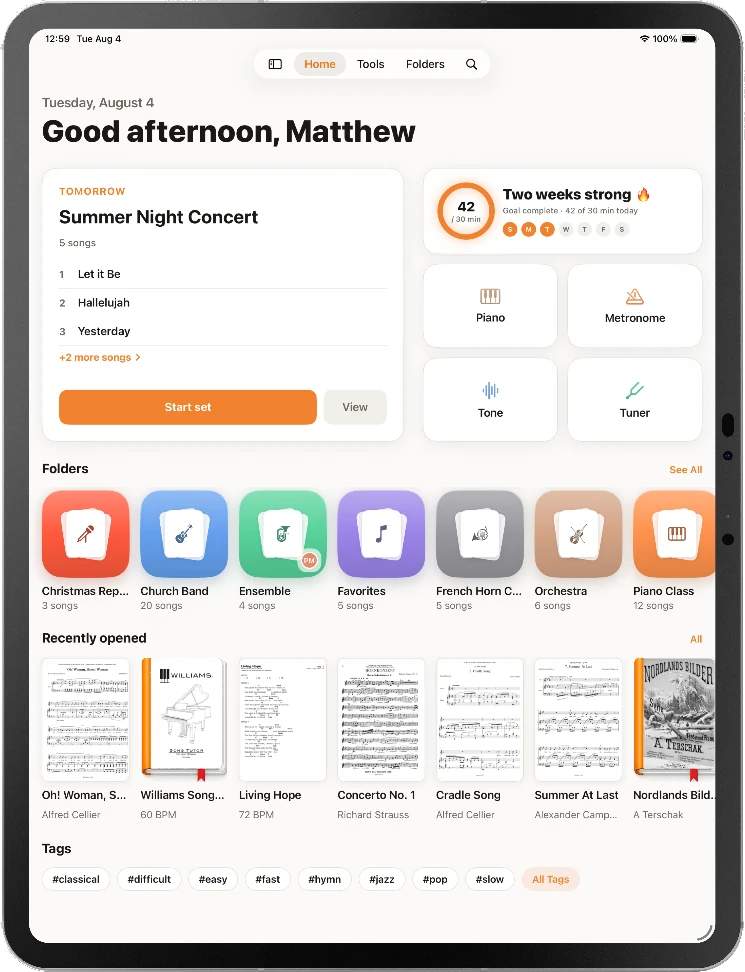
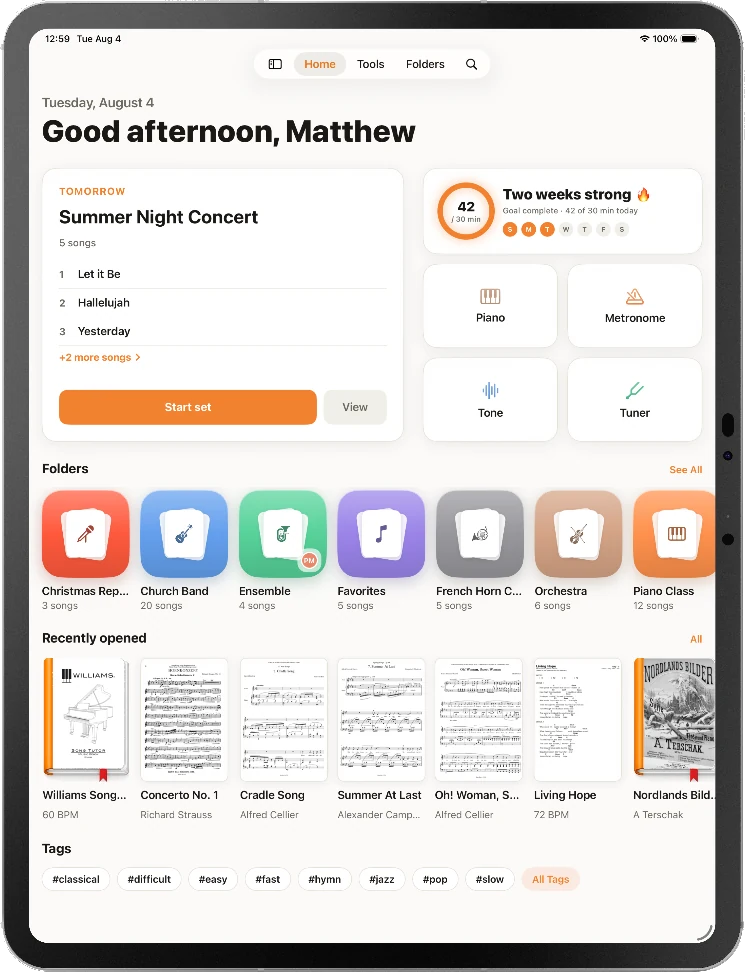
iPad Recently opened order matches iPhone

Changed region(s): [[0.0309, 0.679, 0.8336, 0.8642]]

diff --git a/index.html b/index.html
@@ -904,7 +904,7 @@ section { position: relative; }
 <section class="section devices">
   <div class="wrap devices-grid">
     <div class="devices-pair reveal">
-      <img class="dp-ipad" src="assets/home-ipad.webp?v=1" alt="The Music Folder home screen on iPad: tomorrow's concert set list, a practice streak, quick tools, folders and recently opened scores" width="745" height="972" loading="lazy">
+      <img class="dp-ipad" src="assets/home-ipad.webp?v=2" alt="The Music Folder home screen on iPad: tomorrow's concert set list, a practice streak, quick tools, folders and recently opened scores" width="745" height="972" loading="lazy">
       <img class="dp-iphone" src="assets/home-iphone.webp?v=1" alt="The same home screen on iPhone, with the practice streak and tomorrow's set list" width="396" height="823" loading="lazy">
     </div>
     <div class="reveal">
